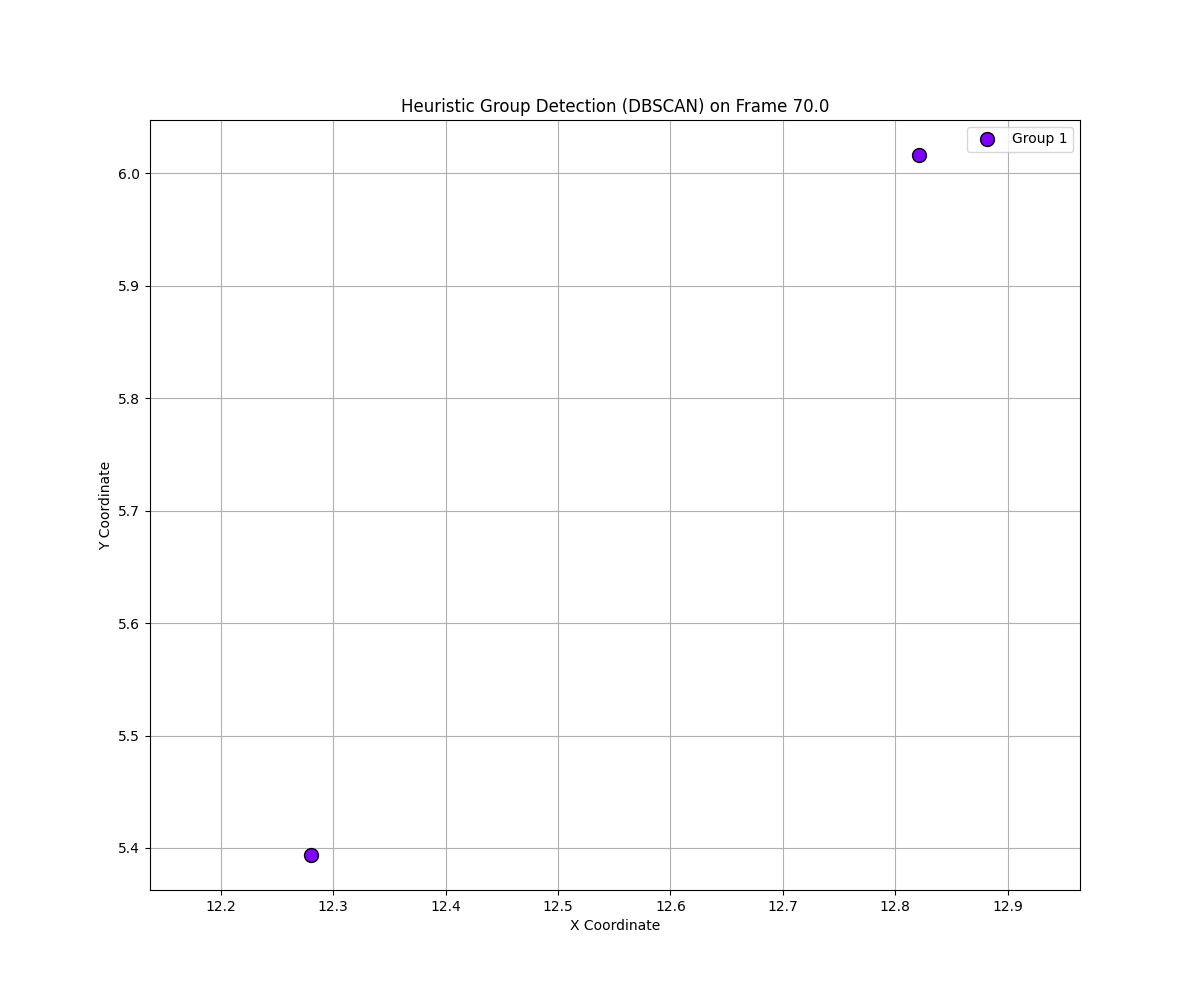
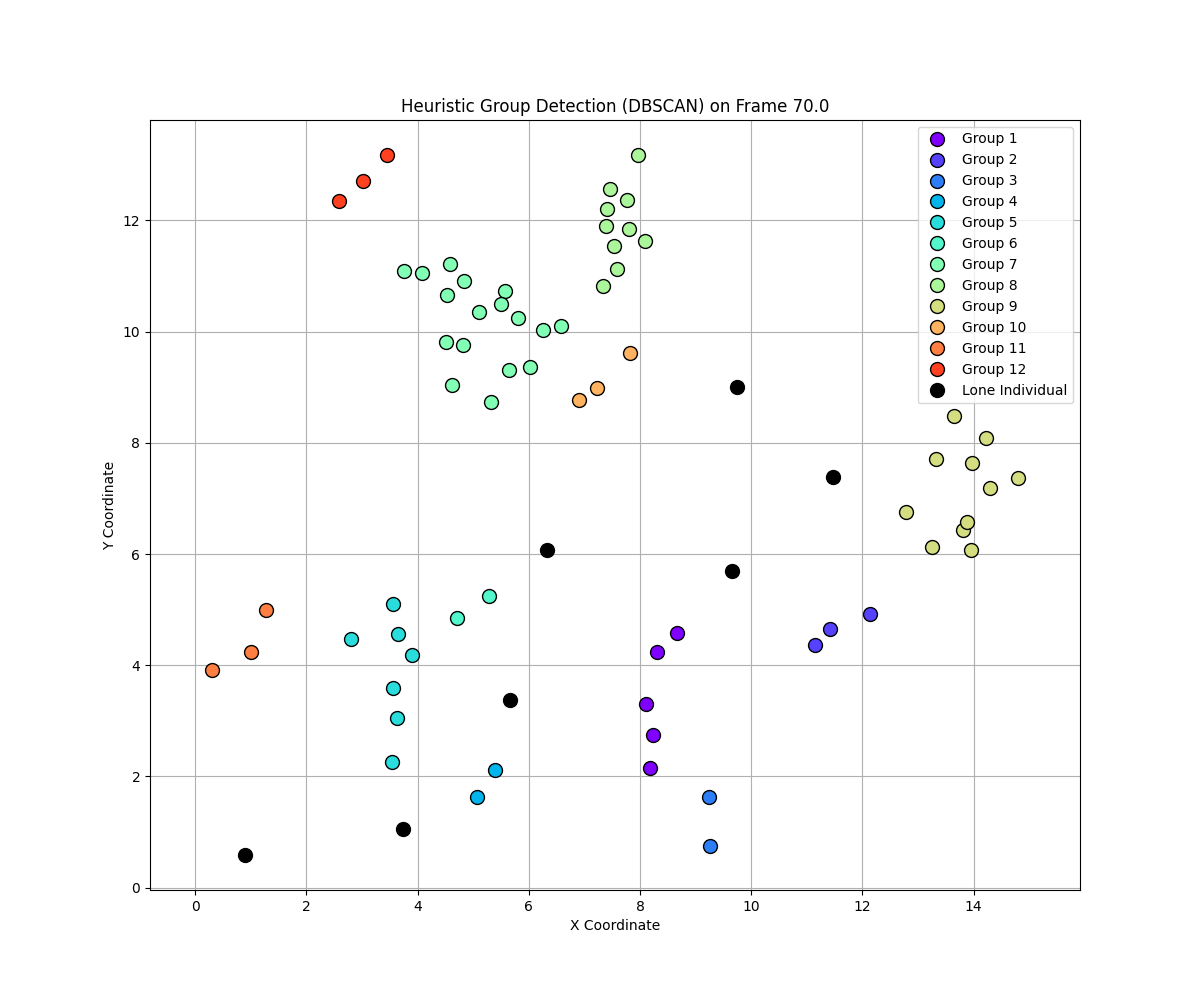
generated new plots for group detection

diff --git a/group_detection.py b/group_detection.py
@@ -86,7 +86,7 @@ if __name__ == '__main__':
     
     # --- 1. Load Raw Data ---
     # We load the raw data, not the processed data, as we need per-frame info
-    data_file_path = './datasets/zara1/train/crowds_zara02_train.txt' # Adjust to your file
+    data_file_path = './datasets/zara1/train/students001_train.txt' # Adjust to your file
     if not os.path.exists(data_file_path):
         print(f"Error: Could not find raw data file at {data_file_path}")
     else:
